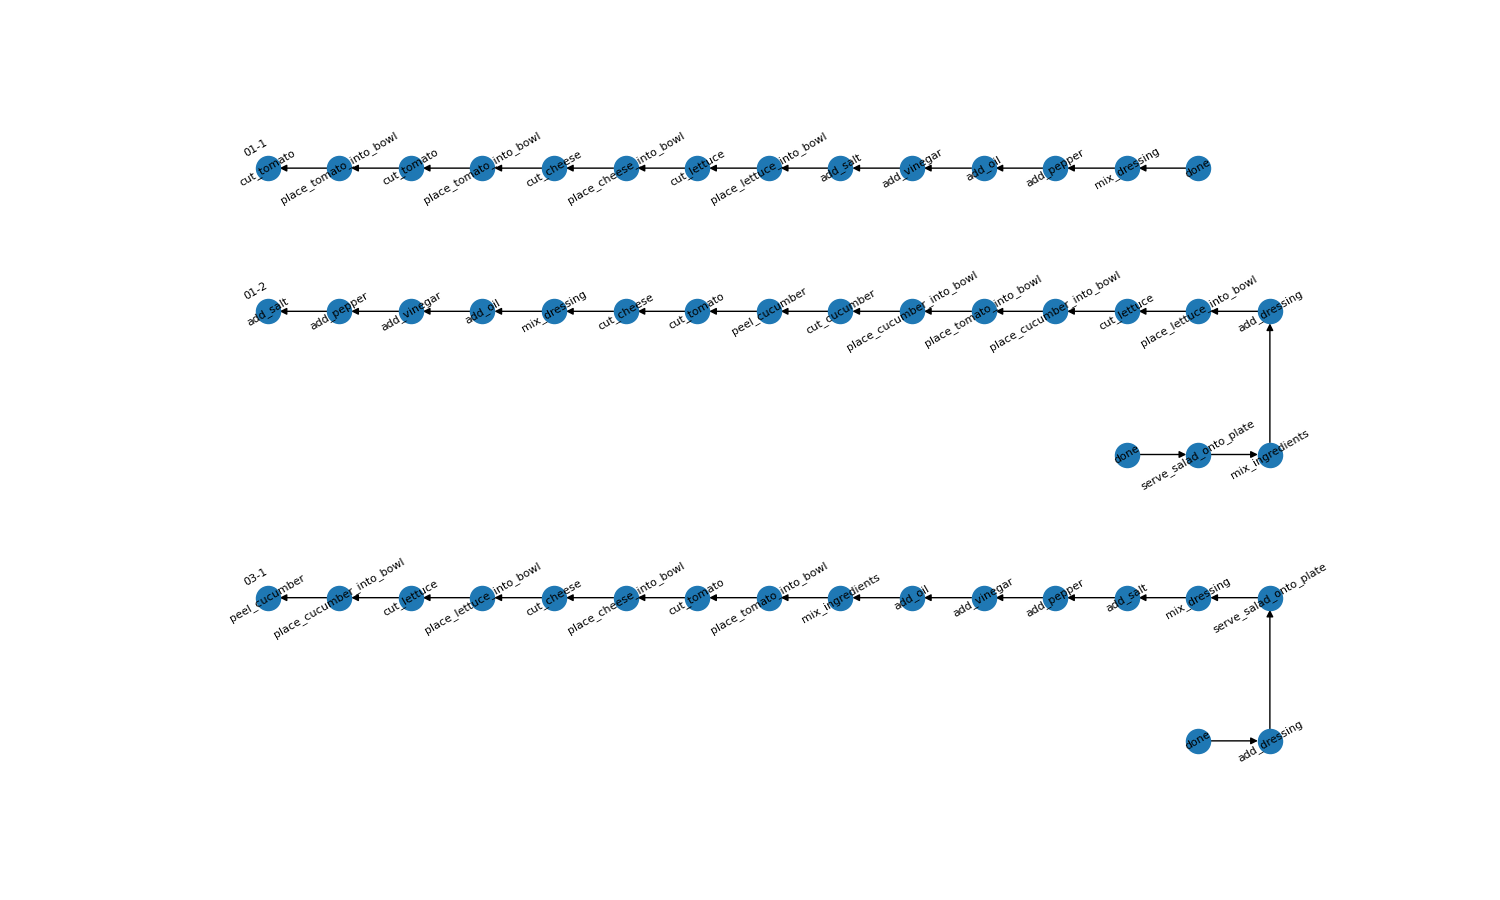
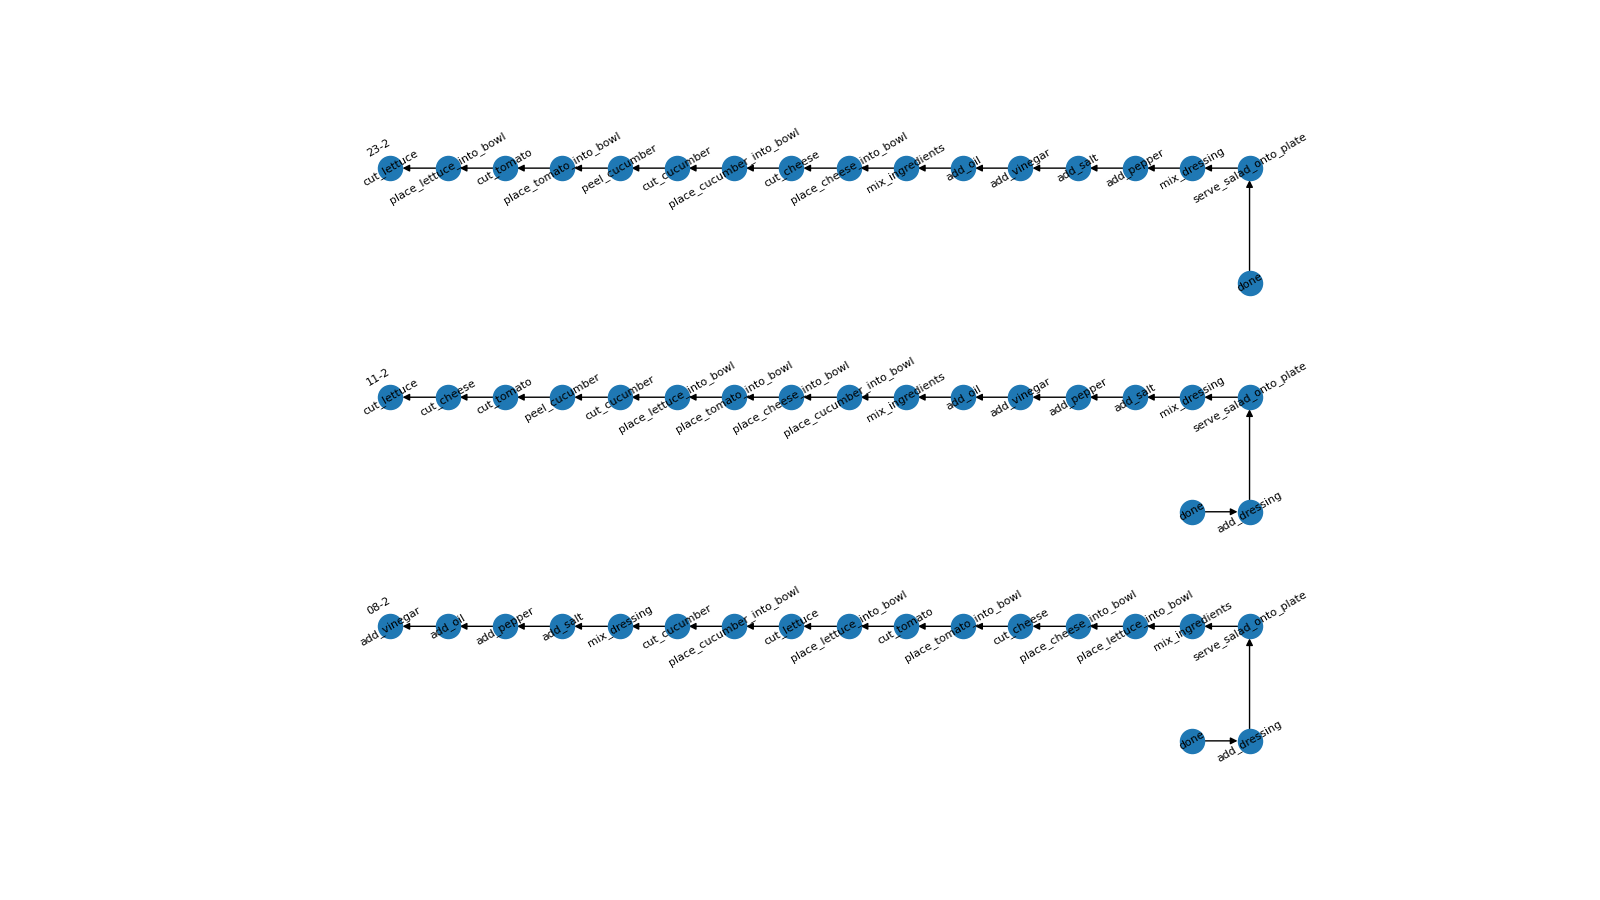
Graph combination almost done

diff --git a/graph_construct/combined_graph_new.py b/graph_construct/combined_graph_new.py
@@ -111,7 +111,7 @@ def hierarchy_pos_2(G, root=None, levels=None, width=1., height=1.):
 
 def construct_graph(all_action_list):
     graph = Graph()
-    for jdx, action_list in enumerate(all_action_list):
+    for action_list in all_action_list:
         for idx, name in enumerate(action_list):
             cur_node = graph.get_node(name)
             if cur_node == False:
@@ -139,6 +139,18 @@ def construct_graph(all_action_list):
                     if (child_node not in cur_node.get_childs()) and (child_node in cur_node.get_lowers()):
                         cur_node.add_child(child_node)
 
+        for idx, name in enumerate(action_list):
+            cur_node = graph.get_node(name)
+            if cur_node.get_highers() == None:
+                cur_node.empty_highers()
+                for higher_name in action_list[idx+1:]:
+                    higher_node = graph.get_node(higher_name)
+                    if higher_node not in cur_node.get_highers():
+                        cur_node.add_higher(higher_node)
+            else:
+                updated_highers = [higher_node for higher_node in cur_node.get_highers() if higher_node.name in action_list[idx+1:]]
+                cur_node.higher_nodes = updated_highers
+
     return graph
 
 def draw_graph(graph):
@@ -153,31 +165,24 @@ def draw_graph(graph):
 
     for i, node in enumerate(graph.get_node_list()):
         for child in node.get_childs():
-            style = 'dashed' if node.num_childs() > 1 else 'solid'
-            DG.add_edge(node.name, child.name, style=style)
+            style = '2' if node.num_childs() > 1 else '1'
+            DG.add_edge(node.name, child.name, edge_type=style)
         
-        asdf = list(set(node.get_lowers()) - set(node.get_childs()))
-        if len(asdf):
-            print(node)
-            print('childs', end=': ')
-            for aa in node.get_childs():
-                print(aa, end=', ')
-            print('')
-            print('diff', end=': ')
-            for aa in asdf:
-                print(aa, end=', ')
-            print('')
-            # print('-> ', end='')
-            for lower in node.get_lowers():
-                if lower not in node.get_childs():
-                    print("starting", lower)
-                    if not node.can_reach(lower, []):
-                        print('+', lower)
-                        DG.add_edge(node.name, lower.name, style='dotted')
-                        child_node = graph.get_node(lower.name)
-                        node.add_child(child_node)
-            print('')
-            # input()
+        for lower in node.get_lowers():
+            if lower not in node.get_childs():
+                if not node.can_reach(lower, []):
+                    DG.add_edge(node.name, lower.name, edge_type='3')
+                    child_node = graph.get_node(lower.name)
+                    node.add_child(child_node)
+
+    for i, node in enumerate(graph.get_node_list(lambda x : x.num_highers())):
+        print(node)
+        for higher in node.get_highers():
+            if node not in higher.get_childs():
+                if not higher.can_reach(node, []):
+                    DG.add_edge(higher.name, node.name, edge_type='4')
+                    higher_node = graph.get_node(higher.name)
+                    higher_node.add_child(node)
 
     nodelist = DG.nodes(data=True)
     edgelist = DG.edges(data=True)
@@ -192,8 +197,8 @@ def draw_graph(graph):
         nx.draw_networkx_nodes(DG, pos=pos)
     
 
-    for style, color in [('solid', 'red'), ('dashed', 'green'), ('dotted', 'red')]:
-        edges = [(u, v) for (u, v, d) in edgelist if d["style"] == style]
+    for edge_type, style, color in [('1', 'solid', 'red'), ('2', 'dashed', 'green'), ('3', 'dotted', 'red'), ('4', 'dotted', 'blue')]:
+        edges = [(u, v) for (u, v, d) in edgelist if d["edge_type"] == edge_type]
         nx.draw_networkx_edges(DG, pos=pos, edgelist=edges, style=style, edge_color=color)
     
     labels = nx.get_node_attributes(DG, 'name')
@@ -213,15 +218,16 @@ FONT_SIZE = 8
 EDGE_COLOR = "green"
 
 # plot_list = ["13-1", "17-2", "09-1"]
+# plot_list = ["07-1", "13-1", "15-2"]
 
-# plot_list = ["01-1", "03-1"]
+# plot_list = ["01-2", "03-1"]
 # plot_list = ["01-1"]
 
 plot_list = ["{:02}-{}".format(i, j) for i in range(1,28) for j in [1, 2]]
 random.shuffle(plot_list)
-plot_list = plot_list[:3]
+plot_list = plot_list[:30]
 
-individual_graph.main(plot_list)
+# individual_graph.main(plot_list)
 
 all_action_list = []
 for idx, plot_file in enumerate(plot_list):

diff --git a/graph_construct/graph.py b/graph_construct/graph.py
@@ -30,7 +30,8 @@ class Node():
         self.name = name
         self.parent_nodes = []
         self.child_nodes = []
-        self.mutex_nodes = []
+        self.lower_nodes = []
+        self.higher_nodes = None
         self.pos = False
 
     def add_child(self, obj):
@@ -38,21 +39,33 @@ class Node():
     
     def add_parent(self, obj):
         self.parent_nodes.append(obj)
-    
-    def add_mutex(self, obj):
-        self.mutex_nodes.append(obj)
+
+    def add_lower(self, obj):
+        self.lower_nodes.append(obj)
+
+    def add_higher(self, obj):
+        self.higher_nodes.append(obj)
 
     def remove_child(self, obj):
         self.child_nodes.remove(obj)
-
-    def empty_childs(self):
-        self.child_nodes = []
     
     def remove_parent(self, obj):
         self.parent_nodes.remove(obj)
     
-    def remove_mutex(self, obj):
-        self.mutex_nodes.remove(obj)
+    def remove_lower(self, obj):
+        self.lower_nodes.remove(obj)
+    
+    def remove_higher(self, obj):
+        self.higher_nodes.remove(obj)
+
+    def empty_childs(self):
+        self.child_nodes = []
+
+    def empty_lowers(self):
+        self.lower_nodes = []
+
+    def empty_highers(self):
+        self.higher_nodes = []
 
     def get_childs(self):
         return self.child_nodes
@@ -60,14 +73,41 @@ class Node():
     def get_parents(self):
         return self.parent_nodes
     
-    def get_mutex(self):
-        return self.mutex_nodes
+    def get_lowers(self):
+        return self.lower_nodes
+    
+    def get_highers(self):
+        return self.higher_nodes
 
     def num_childs(self):
         return len(self.child_nodes)
 
+    def num_lowers(self):
+        return len(self.lower_nodes)
+
+    def num_highers(self):
+        return len(self.higher_nodes)
+
     def is_leaf(self):
         return len(self.child_nodes) == 0
+    
+    def can_reach(self, node, visited=[]):
+        if len(visited) == 0:
+            for lower in self.lower_nodes:
+                if lower != node:
+                    visited.append(lower)
+                    if lower.can_reach(node, visited):
+                        return True
+        else:
+            for child in self.child_nodes:
+                if child not in visited:
+                    if child == node:
+                        return True
+                    else:
+                        visited.append(child)
+                        if child.can_reach(node, visited):
+                            return True
+        return False
 
     def __str__(self):
         return self.name
@@ -88,6 +128,6 @@ class Graph():
     def is_empty(self):
         return len(self.nodes) == 0
 
-    def get_node_list(self):
-        self.nodes = sorted(self.nodes, key=lambda x : x.num_childs())
+    def get_node_list(self, func=lambda x : x.num_lowers()):
+        self.nodes = sorted(self.nodes, key=func)
         return self.nodes

diff --git a/graph_construct/individual_graph.py b/graph_construct/individual_graph.py
@@ -61,7 +61,7 @@ def draw_graph(DG, idx, plot_file, node_list):
 Hyper-parameters
 '''
 LABEL_ROTATION = 30
-GRAPH_WIDTH = 15
+GRAPH_WIDTH = 16
 FONT_SIZE = 8
 node_count = 0
 plot_list = ["01-1", "02-1", "03-1"]
